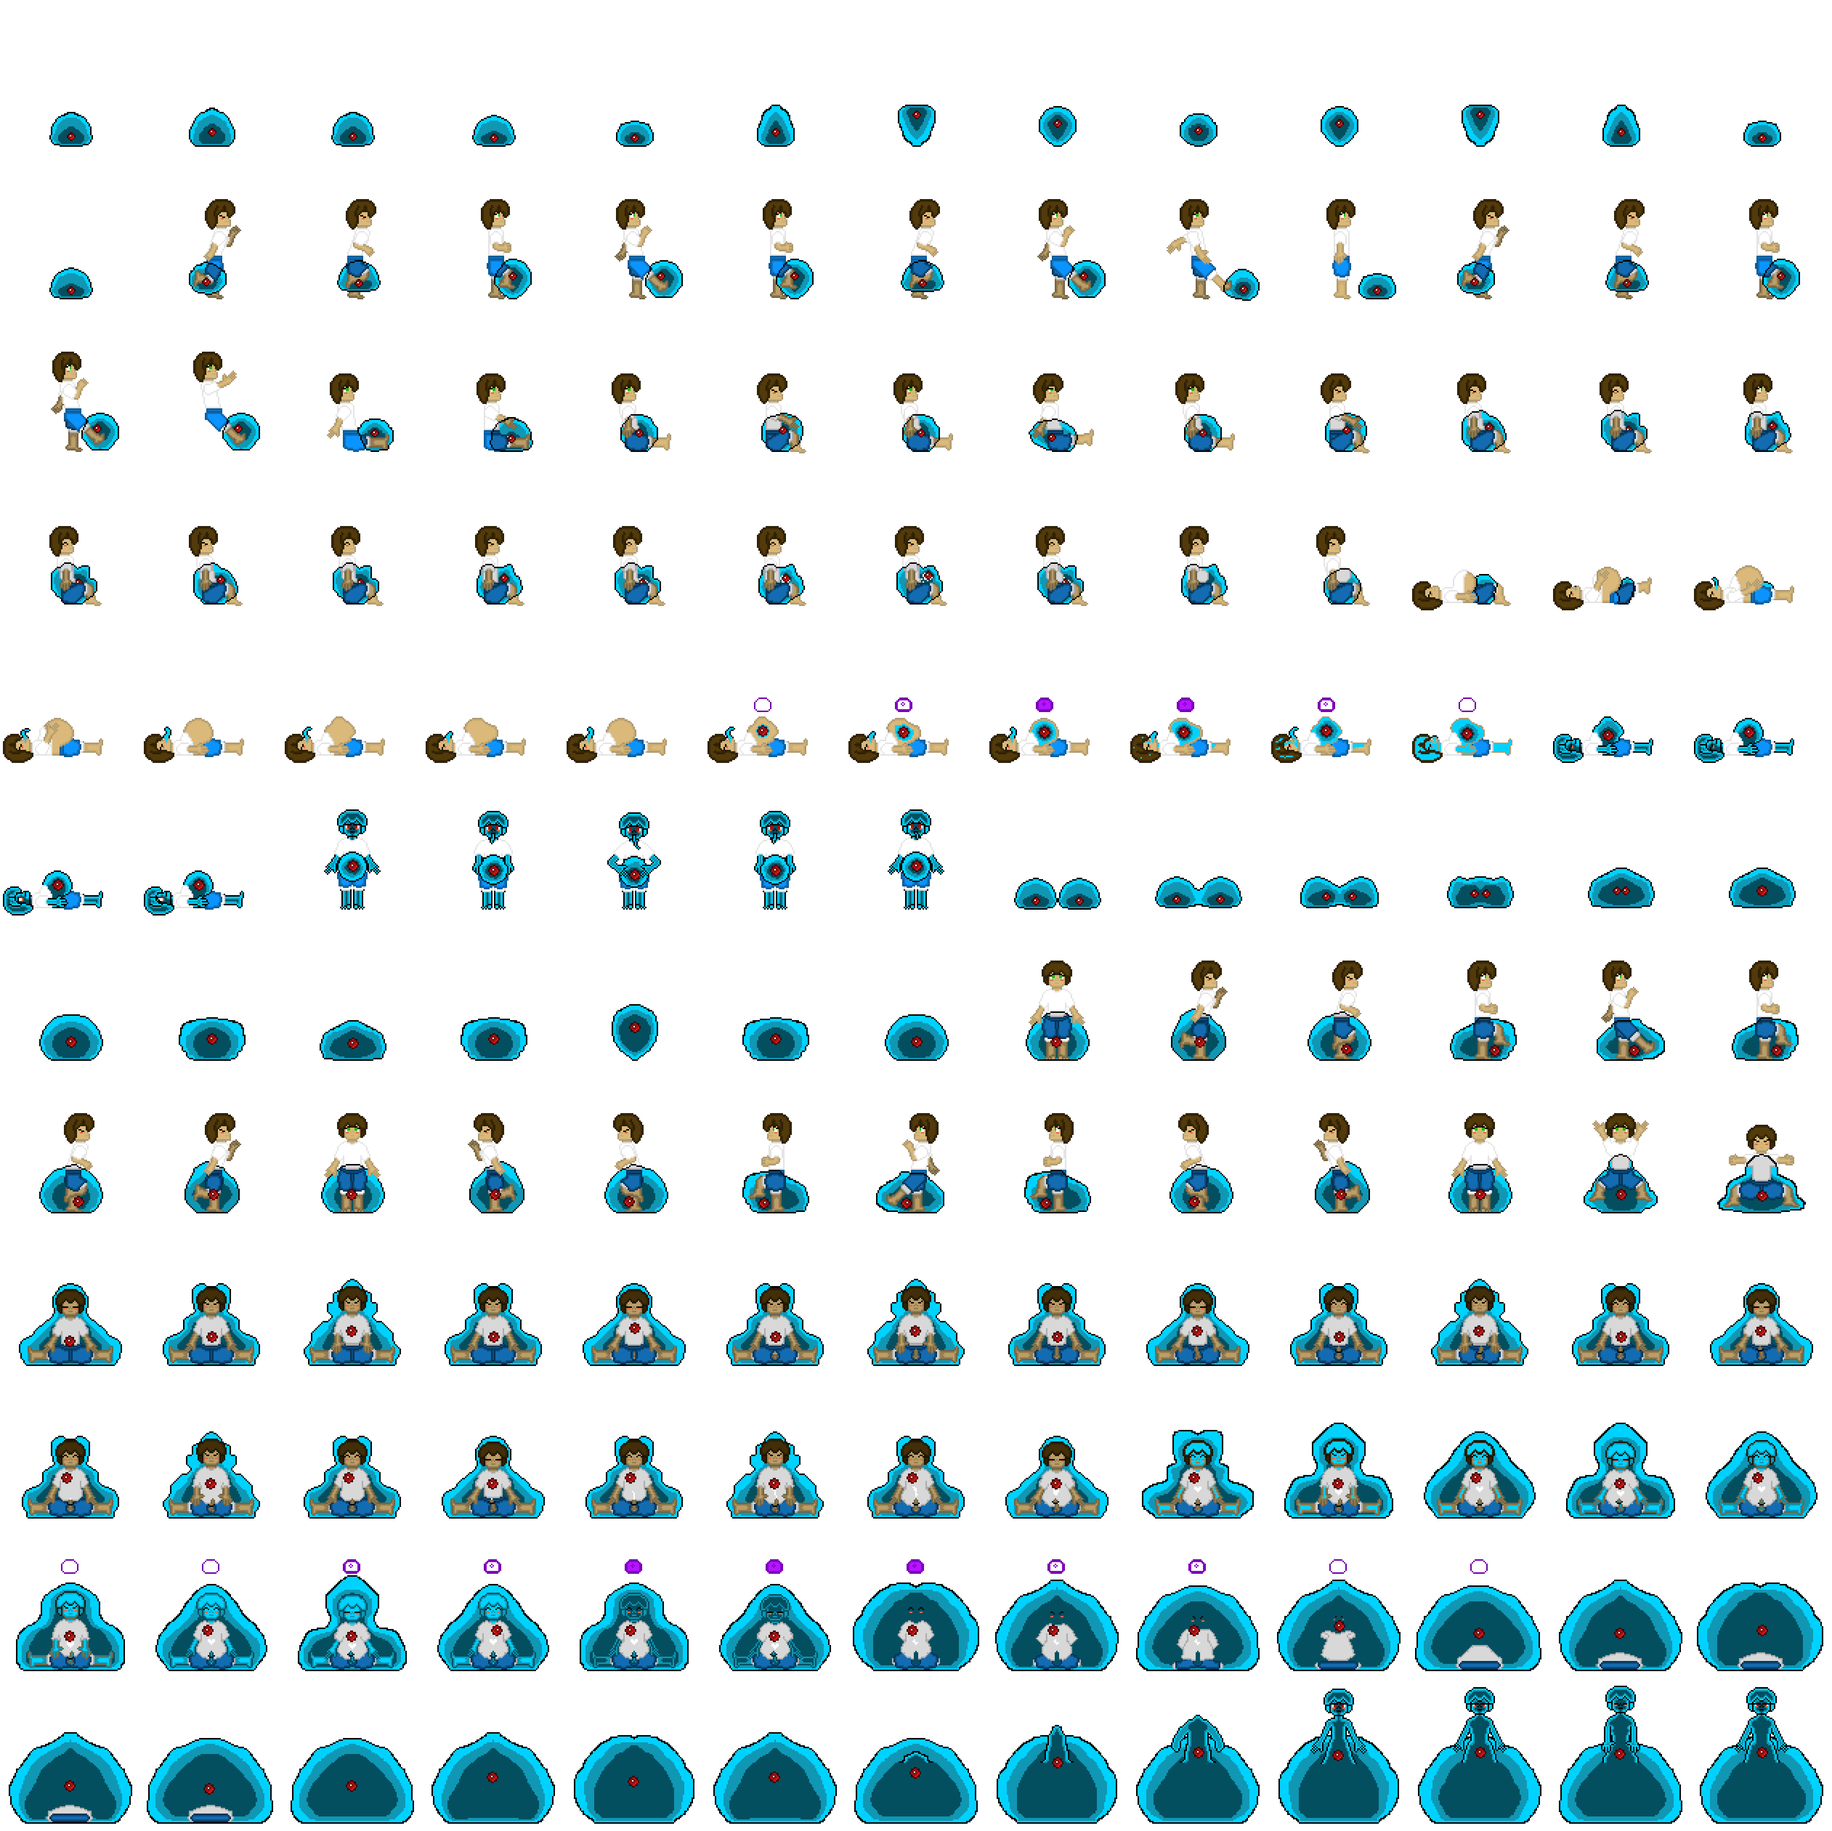
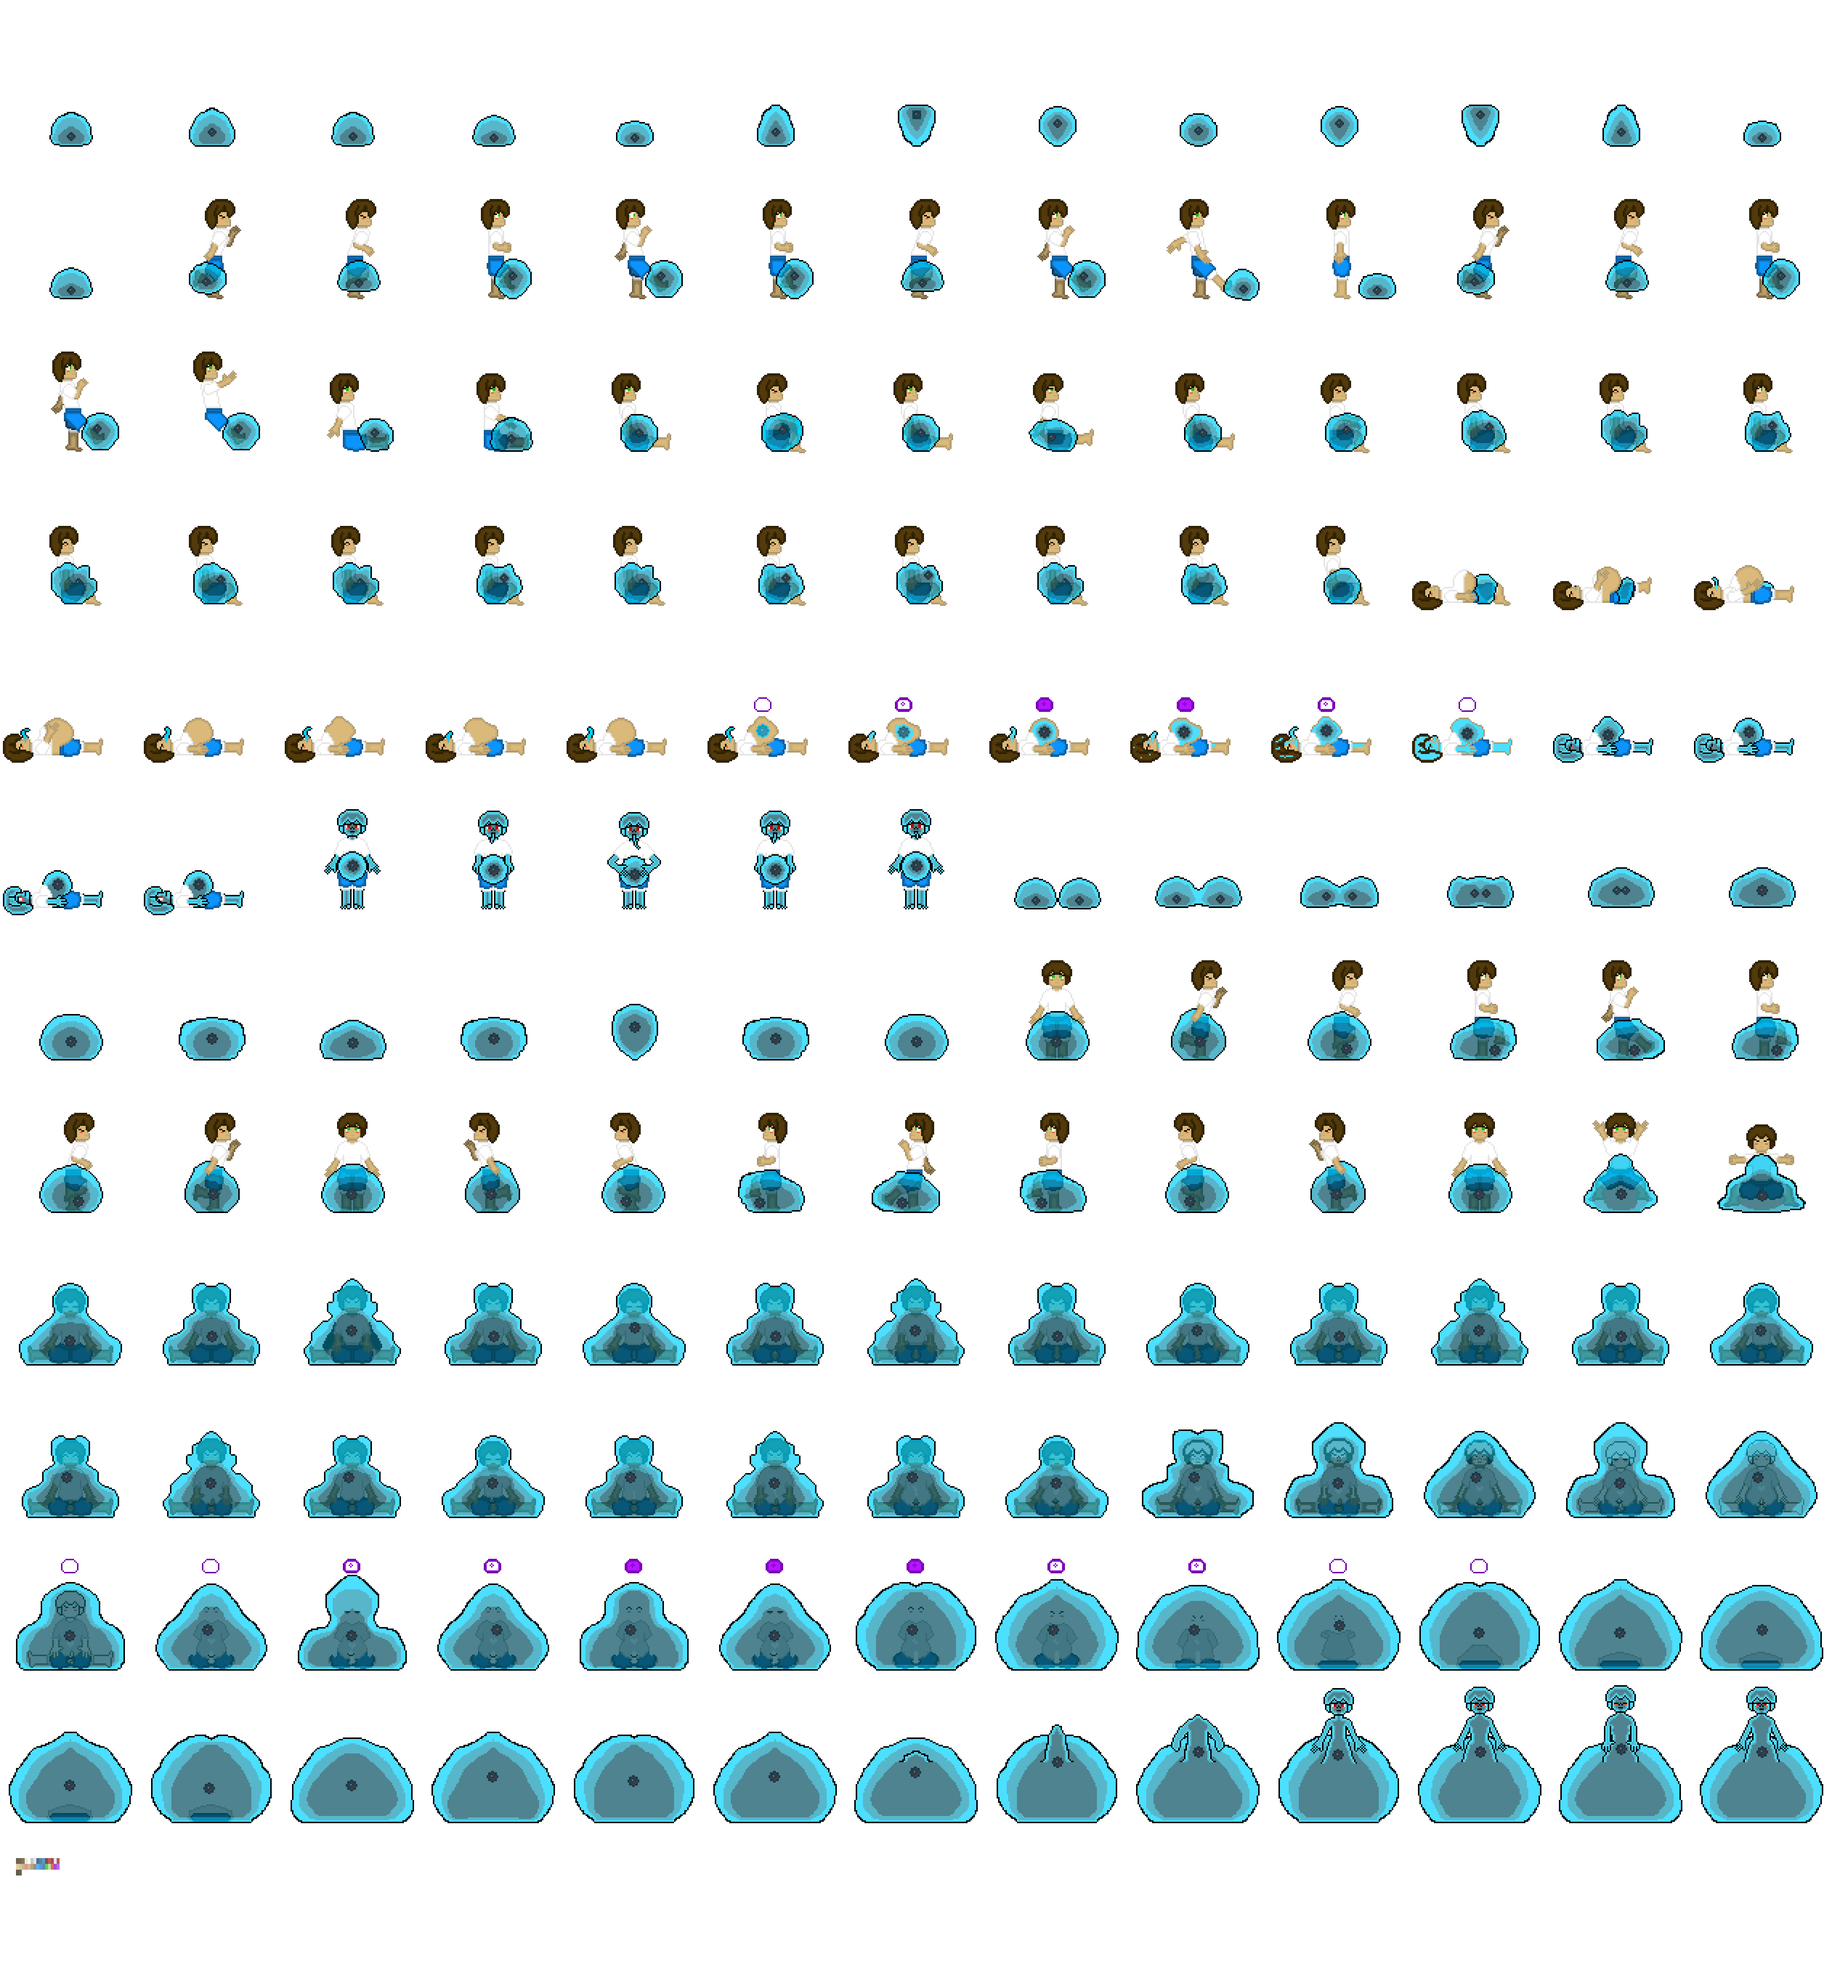
fixed blue slime
added translucency to the sprites for the original blue slime. god this was slow but well worth it.

diff --git a/scripts/sceneScripts/levels/blueSlimeCave.js b/scripts/sceneScripts/levels/blueSlimeCave.js
@@ -193,6 +193,7 @@ class blueSlimeCave extends defaultScene {
       let thisScene = this;
       setTimeout(function(){
           thisScene.initEnemy(1210, 600,thisScene.playerSex,'blueSlime',false);
+          thisScene.initEnemy(1110, 600,thisScene.playerSex,'blueSlime',false);
           thisScene.spawnedEnemys = true;
         },1000);
 

diff --git a/index.html b/index.html
@@ -136,7 +136,7 @@
           default: 'arcade',
           arcade: {
             // debug is excelent for testing velocity and hitboxes.
-            debug: true
+            debug: false
           }
         },
         // loads animated tile plugin?
